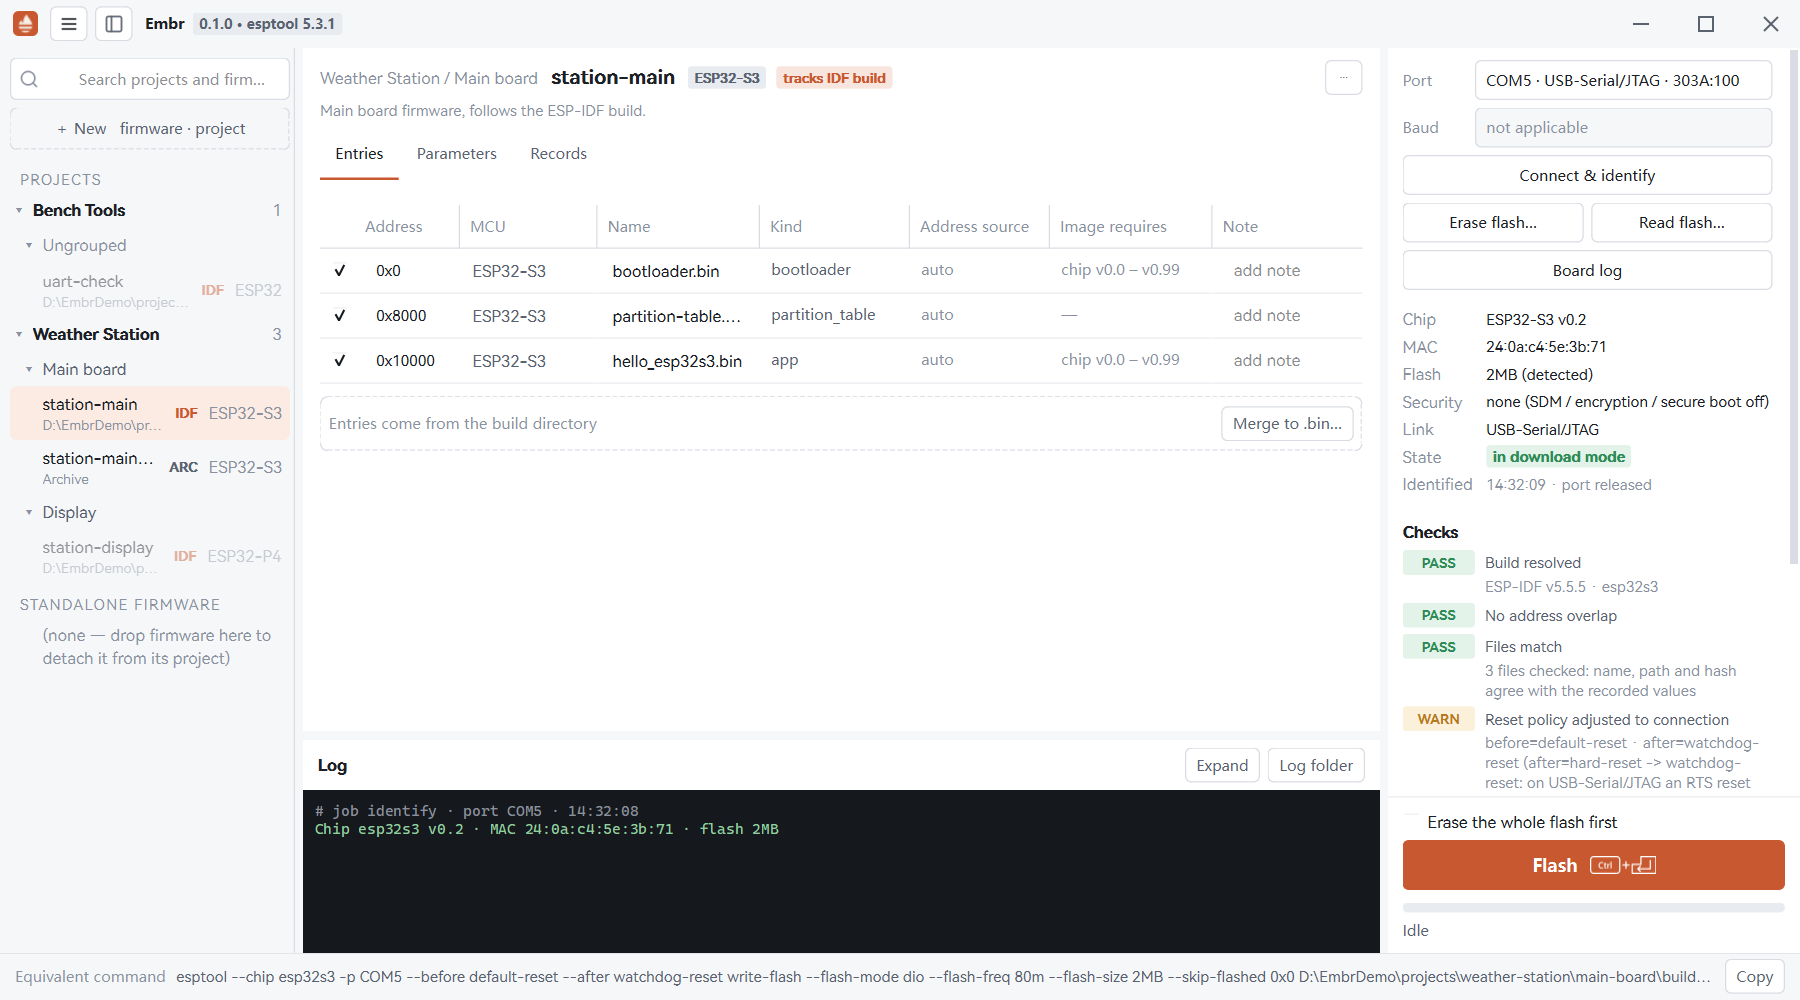
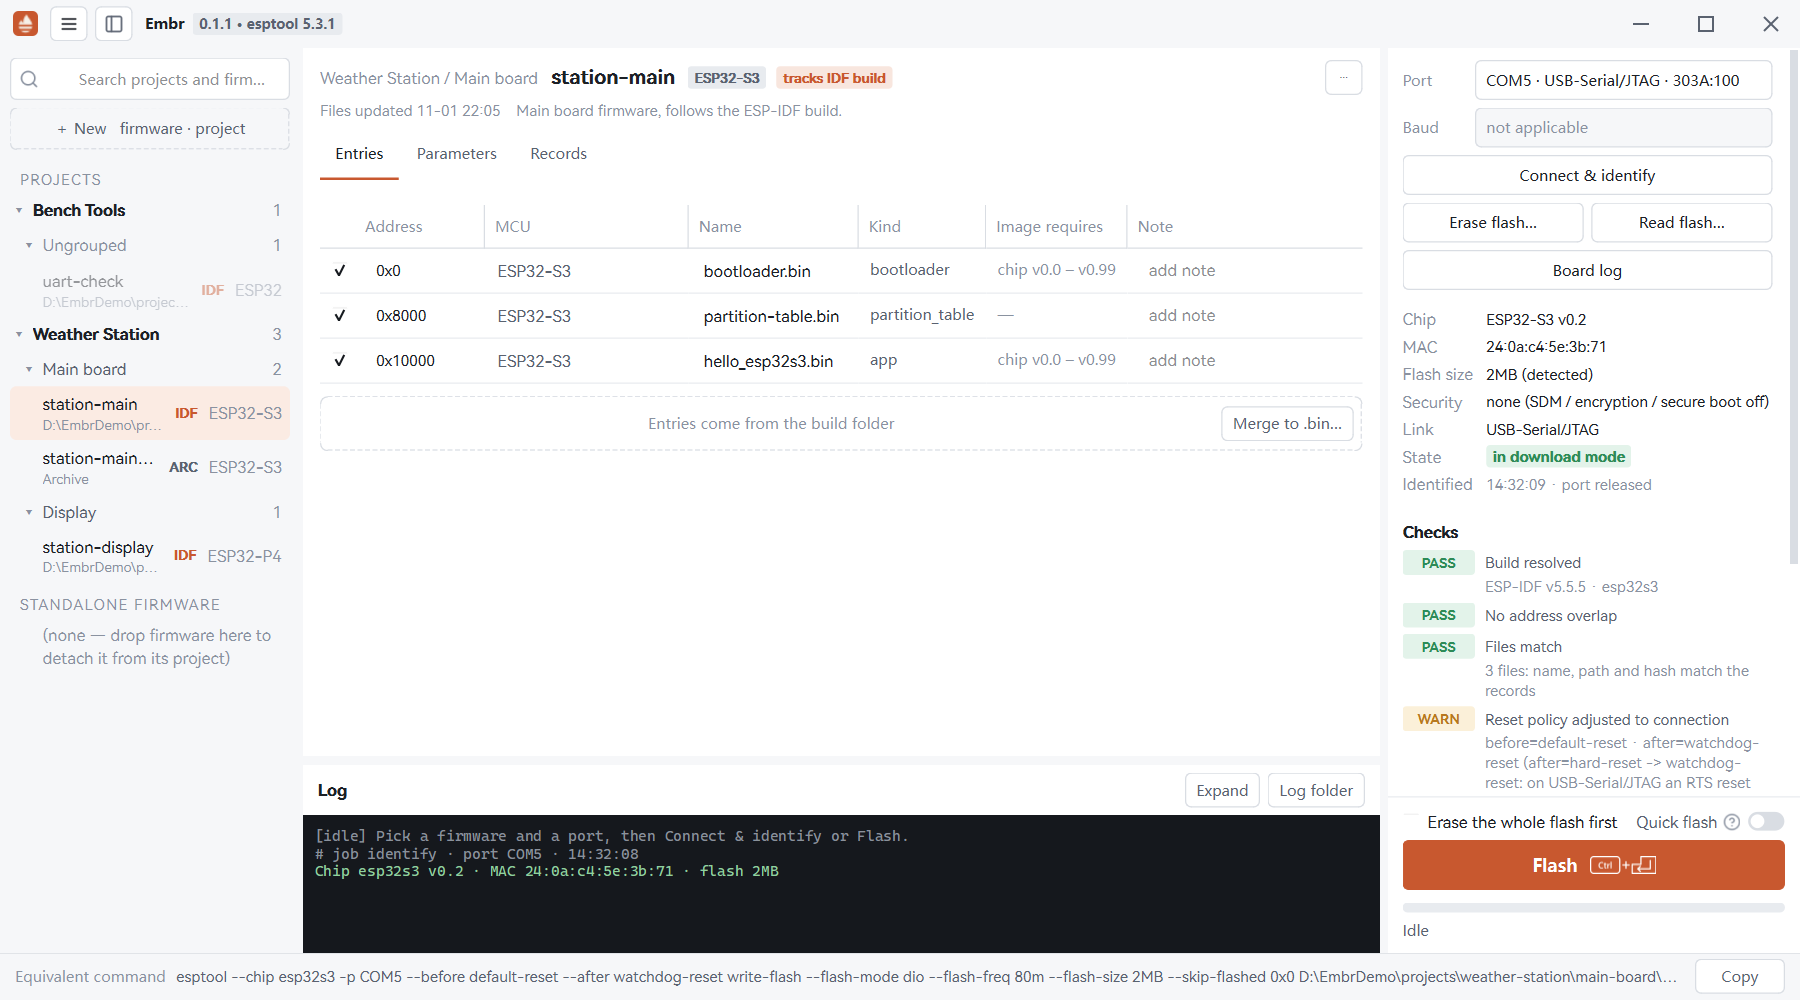
chore: release 0.1.1
- version 0.1.1
- changelog for 0.1.1, with the full list in docs/CHANGELOG.md
- README: new features, verified pioarduino support, links and pictures by full URL, new screenshot

diff --git a/src/embr/__init__.py b/src/embr/__init__.py
@@ -1,3 +1,3 @@
 """Embr: firmware manager and flasher for Espressif chips."""
 
-__version__ = "0.1.0"
+__version__ = "0.1.1"

diff --git a/docs/CHANGELOG.md b/docs/CHANGELOG.md
@@ -1,3 +1,79 @@
+## v0.1.1
+
+### Flashing
+
+- Added **Quick flash**, a switch next to "Erase the whole flash first". With it on, Flash works without Connect & identify first. The flash job still identifies the chip and runs every check: writing is refused if the chip does not match or a security feature is enabled. It is off by default and kept in `settings.ini`.
+  - A firmware for several chips, or with no chip set, still needs Connect & identify, and the hint above Flash says so.
+  - With erase on, a warning says that the whole flash will be erased without a prior Connect & identify.
+  - For USB-OTG and USB-Serial/JTAG ports, the hint says how the board enters download mode.
+- The selected port no longer moves to another board. When it disappears (a cable unplugged, or a board re-enumerating after a reset), it stays selected as "<port> · unavailable" and the board actions are unavailable. When it comes back, it is selected again with its identification and the hint of the last job.
+- A chip refused for Secure Download Mode, flash encryption or Secure Boot is now reset as the "reset after" setting says, instead of being left in download mode.
+- After Connect & identify, a chip in Secure Download Mode is shown as "in download mode" instead of "reset, running".
+- A job now always ends, even when something fails after the board is done (saving the record or the read data, remembering the baud rate, copying the board log). Before, Embr could stay busy until it was restarted. The log says whether the record was saved.
+
+### Following builds
+
+- A followed build is now also checked on a click anywhere in the Embr window and when files are dragged into it, so a build that finishes while Embr is active shows at once. At most one check is queued at a time, and none runs while a dialog or menu is open, while the window is minimized or while a job runs.
+- A renamed app file is now followed automatically: renaming an ESP-IDF project, or changing the PlatformIO output name (`PROGNAME`). This applies when exactly one app entry disappears and one appears, at the same address and for the same chip. The entry keeps its note, check box and address, and the change is listed as "App file renamed: a -> b". The firmware name in the sidebar does not change.
+- PlatformIO: the app file is taken from `prog_path` in `idedata.json`; otherwise the newest app image in the build folder is used. Before, the file name was always `firmware.bin`, and an old `firmware.bin` left in the build folder could be flashed after the output name changed.
+- PlatformIO: when the followed env is no longer declared in `platformio.ini`, the banner says that it may have been renamed. If exactly one other env has been built and is not followed by another firmware, **Follow env** switches to it; otherwise **Change directory…** is offered.
+- PlatformIO: envs declared in the files listed in `extra_configs` are found, and those files are watched for changes.
+- ESP-IDF: a build in progress can no longer be accepted as a mix of new and old files. Before, a new bootloader with the old app could be shown as updated and flashable for several seconds during a build. An image older than its ELF file, or an ELF file older than the libraries it is linked from, now keeps the firmware in "Build in progress".
+- Following stays correct when a file changes while it is being read. Before, a half-written build could stop all further checks until Embr was restarted.
+- An ESP-IDF build that fails its first check right after import is no longer kept, so it can be imported again.
+- PlatformIO projects using Arduino core 3.x (pioarduino) have been verified with pioarduino 55.03.311 (Arduino core 3.3.11) on an ESP32-S3: import, flashing and start-up. v0.1.0 did not guarantee their support.
+
+### Projects and sidebar
+
+- Projects and groups can be reordered by dragging them in the sidebar. A project moves with its groups and firmware; a group moves with its firmware and stays within its project. Esc cancels the drag. The project order is kept in `settings.ini`; the group order is kept in the project and in `.embr` packages. Firmware within a group is still sorted by name.
+- The whole empty area below the list accepts dropped files and build folders, and is highlighted as one target.
+- Group rows always show their number of firmware.
+- After a rename or move, the header, the project path and the Parameters tab show the new values at once.
+- Clicking the selected firmware again keeps its "Build updated" tag, its "content changed" marks and the hint of the last job.
+- While a job runs, deleting a project and removing a group are unavailable.
+- The project page no longer has "Erase the whole flash first" in its defaults for new firmware. New firmware starts with it off; the check box of each firmware is unchanged.
+- Search waits for a short pause in typing before filtering.
+
+### Entries
+
+- Added **Show in Explorer** to the entry menu and the firmware menu (header and sidebar). It shows the entry's file, the build folder or the firmware's folder.
+- The status tags of an entry ("content changed", "new file", "file missing", "added automatically", "placed by partition table", "address differs") are shown to the right of its address.
+- The header shows when the entry files were last updated ("Files updated 14:32:05").
+- ESP32-P4: a firmware no longer shows both "ESP32-P4" and "ESP32-P4 v0–v1" (or "v3"), is no longer shown as "multi" in the sidebar for that reason, and can be merged. This affected archived versions of followed firmware and merged images added to Embr. Data saved by v0.1.0 is shown correctly.
+- ESP32-P4: an image whose header gives only the legacy minimum chip revision is assigned the revision line that esptool uses.
+- Dropping a file that is already in the firmware no longer adds a second entry. If its content changed, the new content is accepted and the entry keeps its address, check box and note.
+- **Copy to firmware…** no longer copies a file that the target firmware already has. **Re-locate…** and **Copy to firmware…** now say why nothing was done.
+- Attachment addresses and the merge start offset accept hexadecimal values only. Before, values such as negative numbers were accepted.
+
+### Merge
+
+- Merging to an existing file asks before replacing it, and names the firmware that use that file. A failed merge leaves the existing file unchanged. The default file name no longer reuses the name of an earlier output.
+- The note of a merged firmware names the source as project / group / firmware.
+
+### Records
+
+- The Records tab shows the 50 newest records, with a button to show earlier ones.
+
+### Interface and wording
+
+- Text being typed in the workspace is kept when the page refreshes in the background (a job ending, a port change, a build check).
+- Chip names are shown as "ESP32-S3" instead of "esp32s3" in checks, banners and dialogs, and chip mismatch messages are complete sentences.
+- The identification row "Flash" is now "Flash size".
+- English terms are used consistently: "build folder", "board" and "enabled" entries.
+- The remaining English texts of the Chinese interface are translated, and many Chinese texts were revised.
+- The tooltips of the New menu and the entry menu are shown.
+- The border between the sidebar and the workspace is removed, and the firmware name sits next to its tags without a gap.
+- The Copy button of the equivalent command keeps its full width. Before, its text could be cut off, depending on the display scaling.
+- Checking or clearing an entry, switching between firmware and opening a firmware with many records are faster.
+
+### Data and robustness
+
+- Embr now starts from a folder whose path contains `#` or `%`. Before, it could not open its data there.
+- Unexpected errors are written to `logs/crash-<date>.log` and reported in the log panel. The first one of a run also opens a dialog with a button that opens the log folder.
+- A damaged `.embr` package is reported as damaged, and an import that fails partway leaves nothing behind.
+- Clean archive keeps the index entry of a file it could not delete, and tries again next time. An archived file whose content no longer matches its hash is written again.
+- A failed write no longer leaves temporary files next to the data.
+
 ## v0.1.0
 
 Initial release. Embr is a firmware manager and flasher for Espressif chips on Windows. It keeps track of every firmware a developer works with (where its files are, the addresses and parameters they are written with, and notes on what each one is) and flashes them through a built-in copy of esptool.

diff --git a/README.md b/README.md
@@ -1,5 +1,5 @@
 <p align="center">
-  <img src="src/embr/resources/logo/embr-icon.svg" alt="Embr logo" width="96">
+  <img src="https://raw.githubusercontent.com/LuoIsHere/Embr/main/src/embr/resources/logo/embr-icon.svg" alt="Embr logo" width="96">
 </p>
 
 <h1 align="center">Embr</h1>
@@ -12,19 +12,19 @@
   <a href="https://github.com/LuoIsHere/Embr/releases"><img src="https://img.shields.io/badge/platform-Windows%2010%20%7C%2011-lightgrey" alt="Platform: Windows 10 | 11"></a>
 </p>
 
-![Embr main window: an ESP-IDF firmware that follows its build directory, after the device has been identified](docs/images/embr-main.png)
+![Embr main window: an ESP-IDF firmware that follows its build directory, after the device has been identified](https://raw.githubusercontent.com/LuoIsHere/Embr/main/docs/images/embr-main.png)
 
 Embr remembers every firmware you work with: where its files are, which addresses and parameters they are written with, and what each firmware is for. Firmware is organized into projects, firmware that follows an ESP-IDF or PlatformIO build always reflects the latest build, and every flash operation is recorded. Flashing is done by a built-in copy of esptool.
 
 ## Features
 
 **Projects and firmware**
-- Organize firmware into projects and groups (for example, one group per board), or keep it standalone. Notes, tags and search are available for every firmware.
+- Organize firmware into projects and groups (for example, one group per board), or keep it standalone. Notes, tags and search are available for every firmware. Projects and groups can be reordered by dragging.
 - Create firmware from `.bin` files, follow an ESP-IDF `build` directory, or follow one or more PlatformIO environments. Files and build folders can be dragged from File Explorer into the sidebar.
 
 **Builds that stay current**
-- Followed builds are checked again when a firmware is selected, when the window becomes active, before every flash, and periodically.
-- A rebuild that only changes file contents is followed automatically. Any other change (entries, addresses, chip, ESP-IDF version, flash parameters) is listed and must be confirmed before flashing.
+- Followed builds are checked again when a firmware is selected, on a click in the window, when the window becomes active, before every flash, and periodically.
+- A rebuild that only changes file contents, or only renames the app file, is followed automatically. Any other change (entries, addresses, chip, ESP-IDF version, flash parameters) is listed and must be confirmed before flashing.
 - An incomplete build, mixed build output or a target that changed without a rebuild is reported and cannot be flashed.
 
 **Recognition**
@@ -39,9 +39,11 @@ Embr remembers every firmware you work with: where its files are, which addresse
 
 **Flashing and more**
 - Flash, erase the whole flash, and read flash to a file. Cancellation works at any stage and always releases the port.
+- Quick flash (off by default) skips Connect & identify: the chip is still identified and checked during the flash.
 - Merge a firmware into a single `.bin` image.
 - Archive a fixed copy of a build, and move projects or firmware between computers as `.embr` packages.
 - Every flash, erase and read operation is recorded: time, port, chip, MAC address, the files written with their SHA-256, the result and the equivalent esptool command.
+- Show the file of an entry, or the build folder of a firmware, in File Explorer.
 
 **Interface**
 - English and Simplified Chinese; light and dark themes, following the system by default.
@@ -81,7 +83,7 @@ Embr is not code-signed. On first start, Windows SmartScreen may show "Windows p
 
 - **Chips:** the chips supported by the built-in esptool 5.3.1, except the ESP8266.
 - **ESP-IDF:** build directories that contain `flasher_args.json`.
-- **PlatformIO:** the Arduino framework with Arduino core 2.0.x on the official Espressif 32 platform, and the ESP-IDF framework. Projects using Arduino core 3.x (pioarduino) can be imported and flashed, but their support is not guaranteed. Arduino core 1.x is not supported.
+- **PlatformIO:** the Arduino framework with Arduino core 2.0.x on the official Espressif 32 platform, and the ESP-IDF framework. Projects using Arduino core 3.x (pioarduino) can be imported and flashed; this has been verified with pioarduino 55.03.311 (Arduino core 3.3.11) on an ESP32-S3. Arduino core 1.x is not supported.
 - **Not supported:** chips with flash encryption, Secure Boot or Secure Download Mode enabled (these are detected and refused), reading or writing eFuses, and operating systems other than Windows.
 
 ## Building from source
@@ -105,7 +107,7 @@ When run from source, Embr keeps its data in the `.run` folder of the repository
 ## Documentation
 
 - [CHANGELOG.md](CHANGELOG.md): summary of the current version.
-- [docs/CHANGELOG.md](docs/CHANGELOG.md): full list of changes in every version.
+- [docs/CHANGELOG.md](https://github.com/LuoIsHere/Embr/blob/main/docs/CHANGELOG.md): full list of changes in every version.
 - [LICENSE](LICENSE): the GNU General Public License, version 3.
 - [THIRD_PARTY_NOTICES](THIRD_PARTY_NOTICES): third-party software, fonts and icons included in Embr, with their licenses.
 

diff --git a/CHANGELOG.md b/CHANGELOG.md
@@ -1,21 +1,11 @@
-## v0.1.0
+## v0.1.1
 
-Initial release. Embr is a firmware manager and flasher for Espressif chips on Windows 10 and 11 (x64), using a built-in esptool 5.3.1.
-
-### Highlights
-
-- **Projects, groups and firmware**: firmware is organized into projects and groups or kept standalone, with notes, tags and search. Deleting a project or firmware removes it from Embr only and does not delete any `.bin` file or build output.
-- **Firmware sources**: `.bin` files chosen by hand, ESP-IDF build directories, and PlatformIO environments (Arduino core 2.0.x on the official platform, and the ESP-IDF framework). Followed builds are re-checked automatically; content changes are followed, other changes require confirmation.
-- **Recognition**: each file is classified by its content, with default addresses from esptool, the partition table and the build output. Every address can be changed. Attachments can be placed by partition or by address.
-- **Safety checks**: flashing is refused for chips with flash encryption, Secure Boot or Secure Download Mode; for a chip or chip revision that does not match the images; and for overlapping entries or entries beyond the flash size.
-- **Flashing**: Connect & identify, flash, erase and read flash. Each operation uses its own connection and releases the port when it ends. Cancellation works at any stage.
-- **Merge, archive, export**: merge a firmware into a single `.bin`, archive a fixed copy of a build, and move projects or firmware between computers as `.embr` packages.
-- **Records and logs**: every flash, erase and read operation is recorded, with daily logs and a log per device. The equivalent esptool command is always shown.
-- **Interface**: English and Simplified Chinese, light and dark themes. Portable: all data stays in the program folder.
-
-### Not supported
-
-- PlatformIO projects using Arduino core 1.x. Arduino core 3.x (pioarduino) projects can be imported and flashed, but their support is not guaranteed.
-- Chips with flash encryption, Secure Boot or Secure Download Mode enabled; reading or writing eFuses; the ESP8266.
-
-The full list of changes is in [docs/CHANGELOG.md](docs/CHANGELOG.md).
+- Added **Quick flash**: with it on, Flash works without Connect & identify first. The chip is still identified and checked during the flash, and writing is refused if it does not match. Off by default.
+- Projects and groups can be reordered by dragging them in the sidebar.
+- Followed builds are checked again on a click anywhere in the window. A renamed app file (ESP-IDF project name, PlatformIO `PROGNAME`) is followed without confirmation, and a renamed PlatformIO env can be followed with one click.
+- An ESP-IDF build in progress is no longer accepted as a mix of new and old files.
+- The selected port no longer moves to another board when it disappears; it is selected again when it comes back.
+- Added **Show in Explorer** for entries and firmware. Entry status tags are shown next to the address, and the header shows when the files were last updated.
+- The Records tab shows the 50 newest records first.
+- Unexpected errors are written to a crash log in the `logs` folder and reported in the window.
+- Fixed a number of issues in following builds, ESP32-P4 chip revisions, merging, archives and the interface. See the [full changelog](https://github.com/LuoIsHere/Embr/blob/main/docs/CHANGELOG.md#v011) for details.
